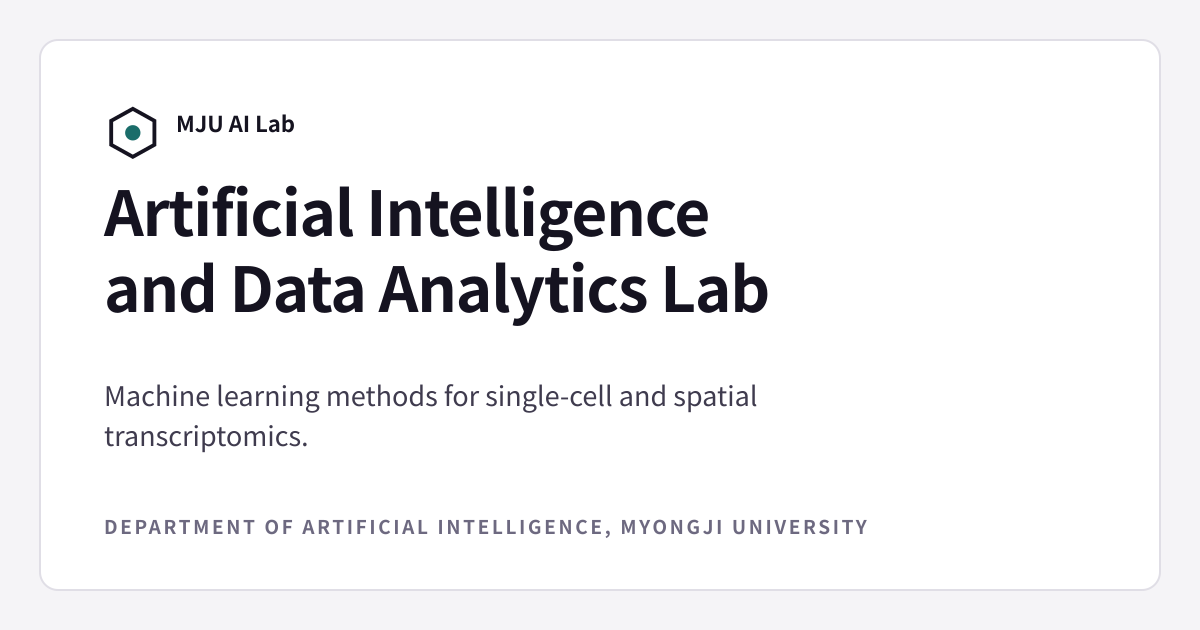
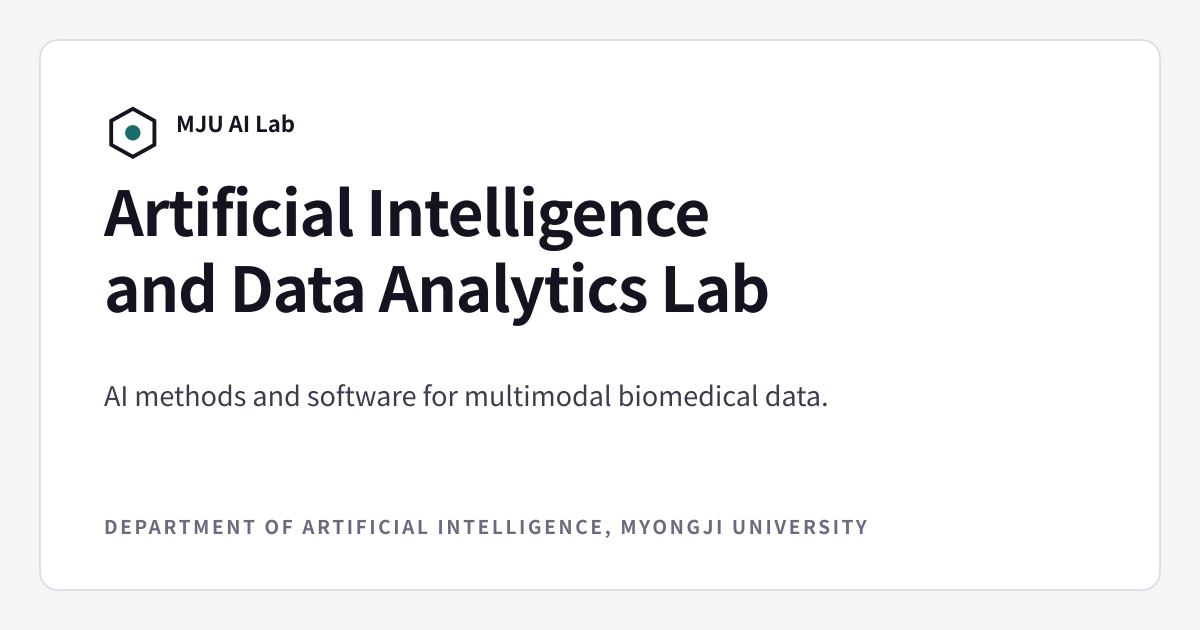
content: 태그라인 교체, 답장 약속 삭제, 갤러리 수상 내역 파생
태그라인
- "Machine learning methods for single-cell and spatial transcriptomics."
  → "AI methods and software for multimodal biomedical data."
  소프트웨어가 빠져 있었고 다루는 데이터 범위보다 좁았다. 모든 페이지의
  meta description·OG·트위터 카드에 함께 나가므로 OG 이미지도 다시 만들었다.
- make-og 의 줄바꿈 폭을 52→62자로 넓혔다. 좁아서 "data." 한 단어만 다음 줄로
  떨어져 있었다.

"보통 3일 안에 답장드립니다" 삭제
- lab.yaml 의 recruiting_reply_ko, 타입, JoinBox, 죽은 .join-r 규칙까지 함께 제거.
- PRODUCT.md 의 모집 약속 항목에서도 뺐다. 지킬 수 없는 날이 생기면 약속이
  아니라 부채가 되므로, 뺀 이유를 같이 남겼다.

갤러리 수상 내역
- BIOINFO 2025 캡션에만 손으로 "received poster awards" 라고 적혀 있었다.
  나머지 행사에도 수상이 있는데 캡션에 없었고, 있는 쪽은 awards.yaml 과 두 벌이었다.
- awards.yaml 에서 같은 달(YYYY-MM)의 kind: award 항목을 앨범에 붙인다.
  캡션의 중복 문장은 지웠다. 지원사업 선정(grant)은 행사가 아니라 제외한다.
- 결과: 6개 앨범 중 5개에 수상이 붙었다 —
  졸업식(석사 졸업 우수연구상), KCC 2026(우수논문상), KSC 2025(우수발표논문상),
  BIOINFO 2025(최우수·우수 포스터상 2건), KCC 2025(우수발표논문상).
  BIOINFO 2024 는 수상이 없어 비어 있다.
- 카드에는 영문 이름과 수상자까지, 라이트박스에는 원어 표기까지 보여준다.
  논문의 .pub-aw 와 같은 배지 어휘를 쓴다. 대비 6.26:1 · 8.60:1.
- gallery.yaml 헤더에 "수상을 캡션에 적지 말 것" 을 남겼다.

Claude-Session: https://claude.ai/code/session_011vYTygWWoz7vs7iQrFdKoV

Changed region(s): [[0.0925, 0.6032, 0.6783, 0.7238]]

diff --git a/components/Gallery.tsx b/components/Gallery.tsx
@@ -1,6 +1,7 @@
 'use client';
 
 import { useCallback, useEffect, useRef, useState } from 'react';
+import AwardName from './AwardName';
 import { asset, type Album } from '@/lib/types';
 
 const src = (id: string, file: string) => asset(`/images/gallery/${id}/${file}`);
@@ -118,6 +119,16 @@ export default function Gallery({ albums }: { albums: Album[] }) {
               <div className="album-d">{a.date}</div>
               <div className="album-t">{a.title}</div>
               {a.caption && <div className="album-c">{a.caption}</div>}
+              {a.awards.length > 0 && (
+                // 카드에서는 영문 이름까지만. 원어 표기는 자리가 있는 라이트박스에서.
+                <div className="album-aw">
+                  {a.awards.map((w) => (
+                    <span key={`${w.date}-${w.title}`}>
+                      {w.title} · {w.member}
+                    </span>
+                  ))}
+                </div>
+              )}
             </div>
           </button>
         ))}
@@ -141,6 +152,15 @@ export default function Gallery({ albums }: { albums: Album[] }) {
                 {album.date}
                 {album.caption ? ` · ${album.caption}` : ''} · {index + 1} / {total}
               </p>
+              {album.awards.length > 0 && (
+                <p className="lb-aw">
+                  {album.awards.map((w) => (
+                    <span key={`${w.date}-${w.title}`}>
+                      <AwardName award={w} /> · {w.member}
+                    </span>
+                  ))}
+                </p>
+              )}
             </div>
             <button ref={closeRef} type="button" className="lb-x" aria-label="Close" onClick={close}>
               ×

diff --git a/lib/content.ts b/lib/content.ts
@@ -86,9 +86,27 @@ export const news: NewsItem[] = (read<NewsItem[]>('news.yaml') ?? [])
 
 export const courses: Course[] = read<Course[]>('courses.yaml') ?? [];
 
-/** 최신 앨범이 위로. 파일 순서에 기대지 않는다 — date 를 손으로 고치면 순서가 어긋난다. */
+/**
+ * 최신 앨범이 위로. 파일 순서에 기대지 않는다 — date 를 손으로 고치면 순서가 어긋난다.
+ *
+ * 수상은 awards.yaml 에서 같은 달(YYYY-MM)의 `award` 항목을 붙인다.
+ * 캡션에 손으로 적지 않는 이유는 news 와 같다 — 두 벌이 되면 상 이름을 고칠 때
+ * 한쪽만 고쳐져 어긋난다. 지원사업 선정(`grant`)은 행사가 아니므로 제외한다.
+ *
+ * 한 달에 행사가 둘이면 양쪽 앨범에 같은 상이 붙는다. 지금 6개 앨범의 달은
+ * 전부 다르다. 겹치는 날이 오면 그때 awards.yaml 에 앨범 id 를 적는 편이 낫다 —
+ * 그 전에 미리 필드를 만들지 않는다.
+ */
 export const albums: Album[] = (read<Album[]>('gallery.yaml') ?? [])
-  .map((a) => ({ ...a, date: toISODate(a.date) }))
+  .map((a) => {
+    const date = toISODate(a.date);
+    const month = date.slice(0, 7);
+    return {
+      ...a,
+      date,
+      awards: awards.filter((w) => w.kind === 'award' && w.date.slice(0, 7) === month),
+    };
+  })
   .sort(byDateDesc);
 
 /* ---------------------------- derived ---------------------------- */

diff --git a/app/globals.css b/app/globals.css
@@ -711,6 +711,39 @@
     font-weight: 700;
     margin-top: 4px;
   }
+  /* 앨범이 받은 상. 논문의 .pub-aw 와 같은 어휘를 쓴다 — 같은 뜻이면 같게 보여야 한다. */
+  .album-aw {
+    display: flex;
+    flex-direction: column;
+    gap: 4px;
+    margin-top: 9px;
+    font-size: 0.78125rem;
+    line-height: 1.45;
+  }
+  .album-aw span {
+    background: var(--award-bg);
+    color: var(--award);
+    border-radius: 3px;
+    padding: 3px 7px;
+  }
+  .album-aw span::before,
+  .lb-aw span::before {
+    content: '\2605';
+    margin-right: 5px;
+  }
+  .lb-aw {
+    display: flex;
+    flex-wrap: wrap;
+    gap: 6px;
+    margin: 7px 0 0;
+    font-size: 0.8125rem;
+  }
+  .lb-aw span {
+    background: rgba(253, 244, 227, 0.15);
+    color: #f0d9a8;
+    border-radius: 3px;
+    padding: 2px 8px;
+  }
   .album-c {
     font-size: 0.8125rem;
     color: var(--mute);
@@ -1097,10 +1130,6 @@
   }
   .join-p + .join-p {
     margin-top: 10px;
-  }
-  .join-r {
-    margin-top: 14px;
-    font-size: 0.84375rem;
   }
   .chips-t {
     margin-bottom: 20px;

diff --git a/lib/types.ts b/lib/types.ts
@@ -15,7 +15,6 @@ export type Lab = {
   intro_ko: string;
   recruiting_ko: string;
   recruiting_checklist_ko: string[];
-  recruiting_reply_ko: string;
   email: string;
   office?: string | null;
   phone?: string | null;
@@ -224,6 +223,11 @@ export type Album = {
   caption?: string | null;
   cover?: string | null;
   photos: string[];
+  /**
+   * 이 행사에서 받은 상. awards.yaml 에서 같은 달(YYYY-MM)의 수상을 붙인다.
+   * 캡션에 손으로 적지 않는다 — 두 벌이 되면 한쪽만 고쳐져 어긋난다.
+   */
+  awards: Award[];
 };
 
 /* ---------------------------- helpers ---------------------------- */

diff --git a/components/JoinBox.tsx b/components/JoinBox.tsx
@@ -35,9 +35,6 @@ export default function JoinBox({ heading = true }: { heading?: boolean }) {
             <li key={item}>{item}</li>
           ))}
         </ul>
-        <p className="join-r" lang="ko">
-          {lab.recruiting_reply_ko}
-        </p>
       </div>
     </div>
   );

diff --git a/PRODUCT.md b/PRODUCT.md
@@ -114,9 +114,16 @@ web
   명지대 공식 조직도(인공지능·소프트웨어융합대학 > 융합소프트웨어학부 > 인공지능전공)와
   일치하지 않지만, 짧고 해외 독자가 바로 이해한다는 이유로 이쪽을 택했다. 이 문자열은
   헤더·주소·메타데이터에 그대로 나간다. 되돌릴 때는 세 곳을 함께 바꾼다.
-- **태그라인:** `Machine learning methods for single-cell and spatial transcriptomics.`
-- **모집 약속:** 생물학 배경은 필수가 아니라고 명시한다. 보통 3일 안에 답장한다고 적혀 있다.
-  이 두 문장은 지원자와의 약속이므로 임의로 지우거나 약화하지 않는다.
+- **태그라인:** `AI methods and software for multimodal biomedical data.`
+  영문 독자가 보는 한 줄이라 Positioning 의 네 가지 중 앞 둘(기법·소프트웨어)을 담는다.
+  기전·약물 타겟까지 넣으면 한 줄에 안 들어가고, 그건 한국어 소개 문단이 맡는다.
+  2026-08 이전에는 `Machine learning methods for single-cell and spatial transcriptomics.`
+  였는데 소프트웨어가 빠져 있고 다루는 데이터 범위보다 좁았다.
+  **고치면 `npm run make-og` 를 다시 돌린다** — OG 카드에 같은 문구가 새겨진다.
+- **모집 약속:** 생물학 배경은 필요하지 않다고 명시한다. 지원자와의 약속이므로
+  임의로 지우거나 약화하지 않는다.
+  ("보통 3일 안에 답장드립니다" 도 있었으나 2026-08 에 뺐다 — 지킬 수 없는 날이 생기면
+  약속이 아니라 부채가 된다.)
 - **연락처:** `msoh@mju.ac.kr` · 종합관 1820호 · 02-300-0679 (명지대 교수 프로필에서 확인).
 - 구성원 이메일은 화면에 평문으로 찍지 않고 mailto 링크로만 렌더링한다.
 
